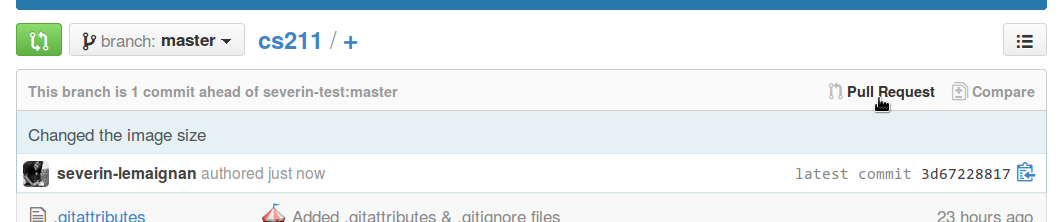
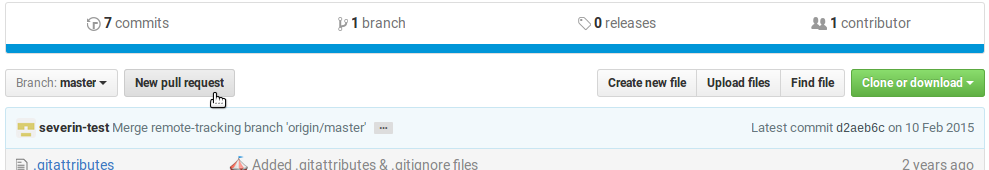
Updated the tutorial with more recent github screeshots

diff --git a/tutorial.tex b/tutorial.tex
@@ -6,7 +6,7 @@
 \newcommand\bs{\char`\\}
 
 \title{git: The basics}
-\date{12 Feb. 2016}
+\date{\today}
 
 \summary{
 This tutorial aims at giving you a good overview of the basics of \git. Steps will
